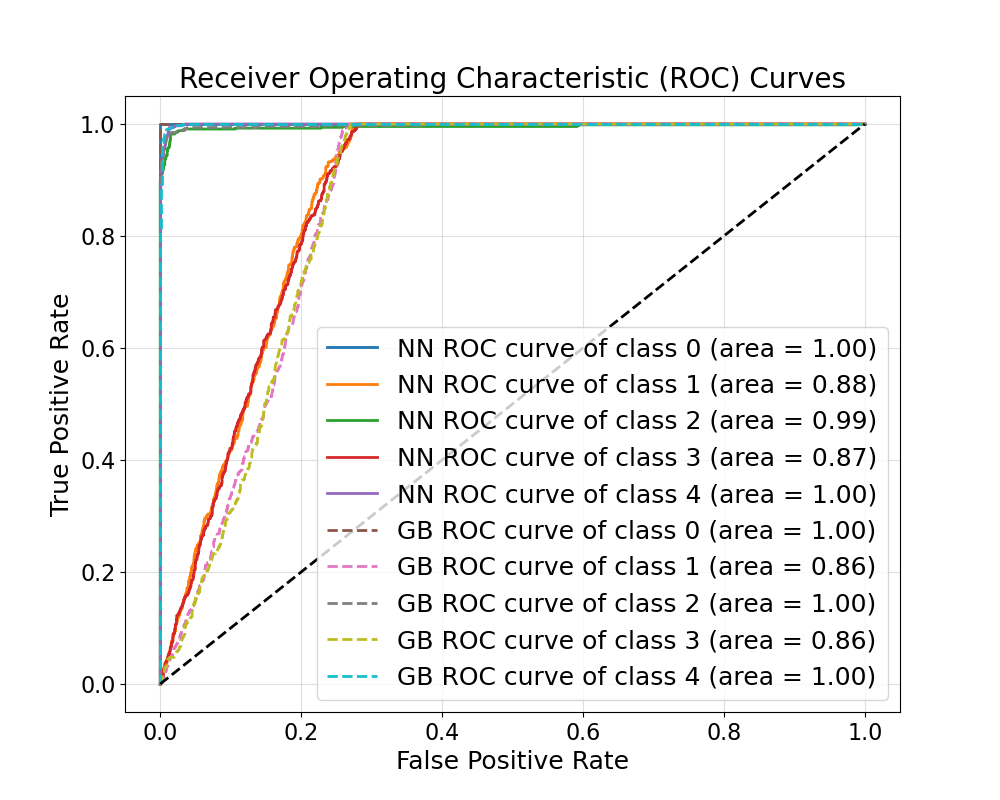
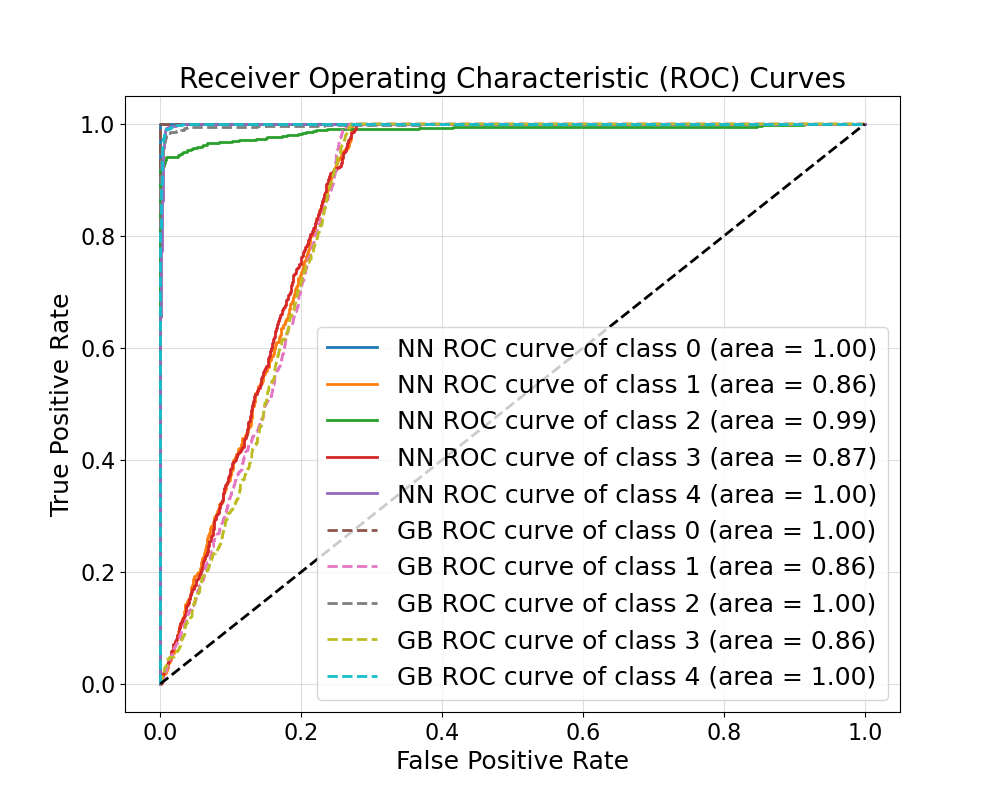
Finished

diff --git a/src/compare.py b/src/compare.py
@@ -33,6 +33,34 @@ class ModelComparison:
         with open(os.path.join(self.gb_dir, 'roc_data_gb.json'), 'r') as f:
             self.gb_roc_data = json.load(f)
 
+
+    def compare_roc_curves(self):
+        plt.figure(figsize=(10, 8))
+        
+        # Plot NN ROC curve
+        for i in range(len(self.nn_roc_data['fpr'])):
+            if str(i) in self.nn_roc_data['fpr'] and str(i) in self.nn_roc_data['tpr']:
+                plt.plot(self.nn_roc_data['fpr'][str(i)], self.nn_roc_data['tpr'][str(i)], lw=2,
+                         label=f'NN ROC curve of class {i} (area = {self.nn_roc_data["roc_auc"][str(i)]:0.2f})')
+        
+        # Plot GB ROC curve
+        for i in range(len(self.gb_roc_data['fpr'])):
+            if str(i) in self.gb_roc_data['fpr'] and str(i) in self.gb_roc_data['tpr']:
+                plt.plot(self.gb_roc_data['fpr'][str(i)], self.gb_roc_data['tpr'][str(i)], lw=2, linestyle='--',
+                         label=f'GB ROC curve of class {i} (area = {self.gb_roc_data["roc_auc"][str(i)]:0.2f})')
+
+        plt.plot([0, 1], [0, 1], 'k--', lw=2)
+        plt.xlim([-0.05, 1.05])
+        plt.ylim([-0.05, 1.05])
+        plt.xlabel('False Positive Rate', fontsize=plt.rcParams['axes.labelsize'])
+        plt.ylabel('True Positive Rate', fontsize=plt.rcParams['axes.labelsize'])
+        plt.title('Receiver Operating Characteristic (ROC) Curves', fontsize=plt.rcParams['axes.titlesize'])
+        plt.legend(loc="lower right",  prop={'size': plt.rcParams['legend.fontsize']})
+        plt.grid(alpha=0.4)
+        plt.savefig(os.path.join(self.output_dir, 'ROC_curve_comparison.png'))
+        plt.close()
+
+
     # def compare_roc_curves(self):
     #     plt.figure(figsize=(10, 8))
         
@@ -59,30 +87,30 @@ class ModelComparison:
     #     plt.close()
 
 
-    def compare_roc_curves(self):
-        plt.figure(figsize=(10, 8))
+    # def compare_roc_curves(self):
+    #     plt.figure(figsize=(10, 8))
         
-        # Plot NN ROC curve
-        for i in range(len(self.nn_roc_data['fpr'])):
-            plt.plot(self.nn_roc_data['fpr'][str(i)], self.nn_roc_data['tpr'][str(i)], lw=2,
-                    label=f'NN ROC curve of class {i} (area = {self.nn_roc_data["roc_auc"][str(i)]:0.2f})')
+    #     # Plot NN ROC curve
+    #     for i in range(len(self.nn_roc_data['fpr'])):
+    #         plt.plot(self.nn_roc_data['fpr'][str(i)], self.nn_roc_data['tpr'][str(i)], lw=2,
+    #                 label=f'NN ROC curve of class {i} (area = {self.nn_roc_data["roc_auc"][str(i)]:0.2f})')
         
-        # Plot GB ROC curve
-        for i in range(len(self.gb_roc_data['fpr'])):
-            if str(i) in self.gb_roc_data['fpr']:
-                plt.plot(self.gb_roc_data['fpr'][str(i)], self.gb_roc_data['tpr'][str(i)], lw=2, linestyle='--',
-                        label=f'GB ROC curve of class {i} (area = {self.gb_roc_data["roc_auc"][str(i)]:0.2f})')
+    #     # Plot GB ROC curve
+    #     for i in range(len(self.gb_roc_data['fpr'])):
+    #         if str(i) in self.gb_roc_data['fpr']:
+    #             plt.plot(self.gb_roc_data['fpr'][str(i)], self.gb_roc_data['tpr'][str(i)], lw=2, linestyle='--',
+    #                     label=f'GB ROC curve of class {i} (area = {self.gb_roc_data["roc_auc"][str(i)]:0.2f})')
 
-        plt.plot([0, 1], [0, 1], 'k--', lw=2)
-        plt.xlim([-0.05, 1.05])
-        plt.ylim([-0.05, 1.05])
-        plt.xlabel('False Positive Rate', fontsize=plt.rcParams['axes.labelsize'])
-        plt.ylabel('True Positive Rate', fontsize=plt.rcParams['axes.labelsize'])
-        plt.title('Receiver Operating Characteristic (ROC) Curves', fontsize=plt.rcParams['axes.titlesize'])
-        plt.legend(loc="lower right", prop={'size': plt.rcParams['legend.fontsize']})
-        plt.grid(alpha=0.4)
-        plt.savefig(os.path.join(self.output_dir, 'ROC_curve_comparison.png'))
-        plt.close()
+    #     plt.plot([0, 1], [0, 1], 'k--', lw=2)
+    #     plt.xlim([-0.05, 1.05])
+    #     plt.ylim([-0.05, 1.05])
+    #     plt.xlabel('False Positive Rate', fontsize=plt.rcParams['axes.labelsize'])
+    #     plt.ylabel('True Positive Rate', fontsize=plt.rcParams['axes.labelsize'])
+    #     plt.title('Receiver Operating Characteristic (ROC) Curves', fontsize=plt.rcParams['axes.titlesize'])
+    #     plt.legend(loc="lower right", prop={'size': plt.rcParams['legend.fontsize']})
+    #     plt.grid(alpha=0.4)
+    #     plt.savefig(os.path.join(self.output_dir, 'ROC_curve_comparison.png'))
+    #     plt.close()
 
 
     def compare_metrics(self):

diff --git a/src/run.py b/src/run.py
@@ -12,12 +12,12 @@ def main():
     default_sample_size = 0.33
     
     ########## Parameters Neural Network ##########
-    skip_NN = False
+    skip_NN = True
     skip_validate_NN_params = True
     
     ########## Parameters Gradient Boosting ##########
     skip_gb = False
-    skip_validate_GB_params = False
+    skip_validate_GB_params = True
 
     ########## Data Preprocessing ##########
     print("\nData Preprocessing Being processed...")
@@ -92,12 +92,19 @@ def main():
         if skip_validate_GB_params!=True:
                 gb.hyperparameter_tuning()
         else:
+            # best_params_GB = {
+            #     'n_estimators': 200,
+            #     'learning_rate': 0.1,
+            #     'max_depth': 3,
+            #     'subsample': 0.8,
+            #     'min_samples_split': 2
+            # }
             best_params_GB = {
-                'n_estimators': 200,
-                'learning_rate': 0.1,
-                'max_depth': 3,
-                'subsample': 0.8,
-                'min_samples_split': 2
+                'n_estimators': 150,
+                'learning_rate': 0.05,
+                'max_depth': 5,
+                'subsample': 0.5,
+                'min_samples_split': 6
             }
             gb.set_params(best_params_GB)
         gb.train_model()
